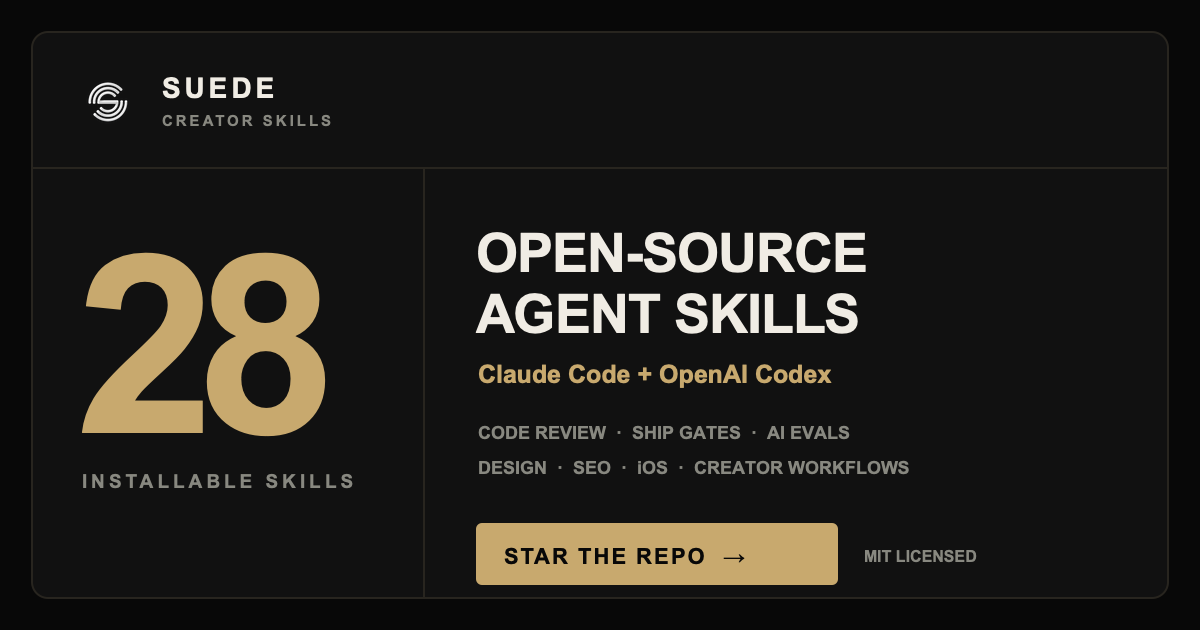
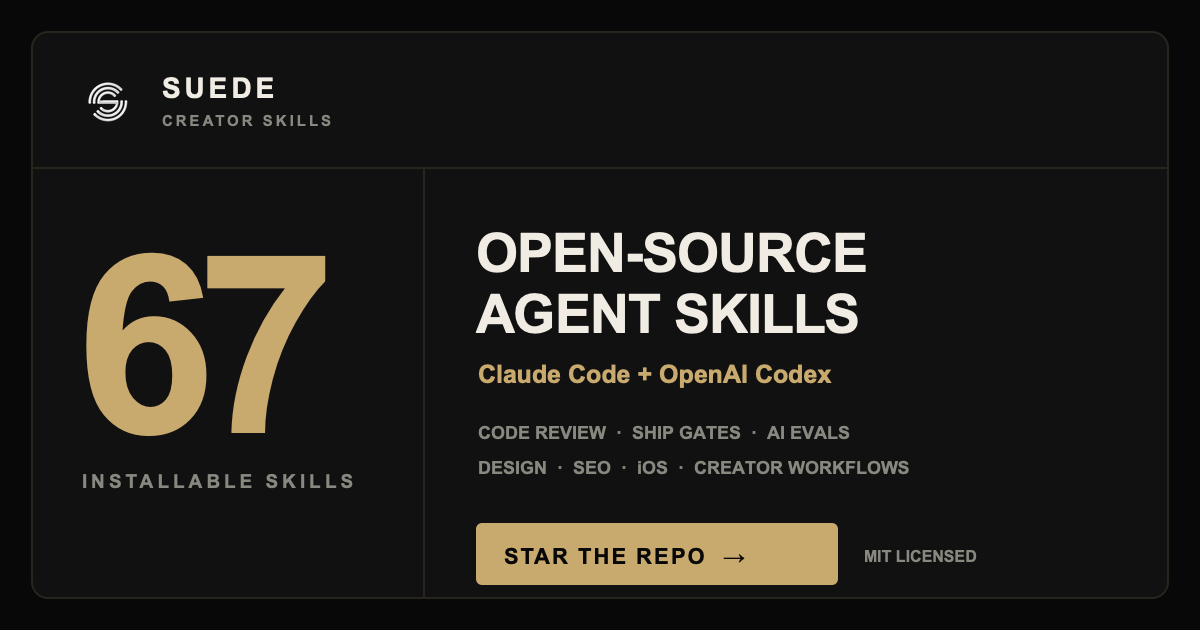
fix(docs): correct stale 28-skill claims and guard the catalog page
The docs catalog page had no entry in the validator's countChecks, so its
title, twitter:description, and catalog heading sat at 28 while the meta
description on the same page already said 67. The social card SVG/PNG --
the image attached to every share of every page -- also still read 28.

Corrected surfaces:
- docs/skills/index.html: title, twitter:description, "All N skill folders"
- docs/skills/index.html: "Design & copy" lane badge said 4 above 5 rows
- docs/skills/suede-full-send.html: og:image:alt and twitter:image:alt
- docs/assets/og-image-v2.svg + re-rendered PNG: headline number and desc

Guards added so the class cannot recur silently:
- countChecks entries for every count string on the catalog page, the
  social card SVG, and the full-send image alts
- a structural check that the catalog actually lists all 67 skills, links
  no skill that does not exist, and that each lane badge matches its rows

The lane-badge defect is the reason the structural check exists: no
count-string check would ever have caught a badge reading 4 above 5 rows.

All four guard types negative-tested by breaking each and confirming a
hard failure, then restoring.

Changed region(s): [[0.0617, 0.3921, 0.2775, 0.6937], [0.0925, 0.3921, 0.1233, 0.4222]]

diff --git a/docs/skills/index.html b/docs/skills/index.html
@@ -3,7 +3,7 @@
 <head>
   <meta charset="utf-8">
   <meta name="viewport" content="width=device-width, initial-scale=1">
-  <title>Suede Creator Skills Docs | 28 Agent Skills</title>
+  <title>Suede Creator Skills Docs | 67 Agent Skills</title>
   <meta name="description" content="Browse all 67 Suede Creator Skills for Claude Code and Codex: Full Send orchestration, agent teams, code review, CI, AI evals, Suedify, SEO, MCP, iOS, Android, and creator tools.">
   <meta name="author" content="Jason Colapietro">
   <meta name="robots" content="index, follow, max-image-preview:large, max-snippet:-1">
@@ -16,7 +16,7 @@
   <meta property="og:image" content="https://jasoncolapietro.github.io/suede-creator-skills/assets/og-image-v2.png">
   <meta name="twitter:card" content="summary_large_image">
   <meta name="twitter:title" content="Suede Creator Skills Docs">
-  <meta name="twitter:description" content="Public docs for 28 Claude Code and Codex skills: Full Send orchestration, agent teams, A-F code review, CI ship-gates, AI evals, Suedify, SEO/AEO/GEO/AI EO, music/IP, and creator workflows.">
+  <meta name="twitter:description" content="Public docs for 67 Claude Code and Codex skills: Full Send orchestration, agent teams, A-F code review, CI ship-gates, AI evals, Suedify, SEO/AEO/GEO/AI EO, music/IP, and creator workflows.">
   <meta name="twitter:image" content="https://jasoncolapietro.github.io/suede-creator-skills/assets/og-image-v2.png">
   <script type="application/ld+json">
     {
@@ -441,7 +441,7 @@
   </section>
 
   <section class="shell" aria-labelledby="catalog">
-    <h2 id="catalog">All 28 skill folders</h2>
+    <h2 id="catalog">All 67 skill folders</h2>
     <p class="section-sub">Grouped by lane. Rows link to the deep docs page; every folder is inspectable on GitHub before you install it.</p>
 
     <div class="lane">
@@ -463,7 +463,7 @@
     </div>
 
     <div class="lane">
-      <div class="lane-head"><h3>Design &amp; copy</h3><span class="lane-count">4</span></div>
+      <div class="lane-head"><h3>Design &amp; copy</h3><span class="lane-count">5</span></div>
       <a class="row" href="johnny-suede-write.html"><b>johnny-suede-write</b><span>Full writing mode for Suede or a supplied company: copy, company voice, product and mobile copy, SEO/AEO/AI EO, CTAs, launch copy, and anti-slop line editing.</span><span class="arrow">-&gt;</span></a>
       <a class="row" href="johnny-suede-design.html"><b>johnny-suede-design</b><span>Full design mode for Suede or a supplied company: Suedify, mobile and product surfaces, product screenshots, UI polish, design-system QA, visual QA, visibility grading, implementation handoff, company voice, and copy.</span><span class="arrow">-&gt;</span></a>
       <a class="row" href="./suede-design.html"><b>suede-design</b><span>Design laws, component rules, dark-mode tokens, fluid type, motion sequencing, and visual QA for any Suede surface.</span><span class="arrow">-&gt;</span></a>

diff --git a/docs/skills/suede-full-send.html b/docs/skills/suede-full-send.html
@@ -14,12 +14,12 @@
   <meta property="og:description" content="One controller. Maximum useful non-colliding lanes. Adversarial review and proof for broad, authorized outcomes.">
   <meta property="og:url" content="https://jasoncolapietro.github.io/suede-creator-skills/skills/suede-full-send.html">
   <meta property="og:image" content="https://jasoncolapietro.github.io/suede-creator-skills/assets/og-image-v2.png">
-  <meta property="og:image:alt" content="Suede Creator Skills: 28 open-source Agent Skills">
+  <meta property="og:image:alt" content="Suede Creator Skills: 67 open-source Agent Skills">
   <meta name="twitter:card" content="summary_large_image">
   <meta name="twitter:title" content="Suede Full Send">
   <meta name="twitter:description" content="Route broad, authorized outcomes through one controller, useful lanes, adversarial review, and proof.">
   <meta name="twitter:image" content="https://jasoncolapietro.github.io/suede-creator-skills/assets/og-image-v2.png">
-  <meta name="twitter:image:alt" content="Suede Creator Skills: 28 open-source Agent Skills">
+  <meta name="twitter:image:alt" content="Suede Creator Skills: 67 open-source Agent Skills">
   <script type="application/ld+json">
   {
     "@context": "https://schema.org",
